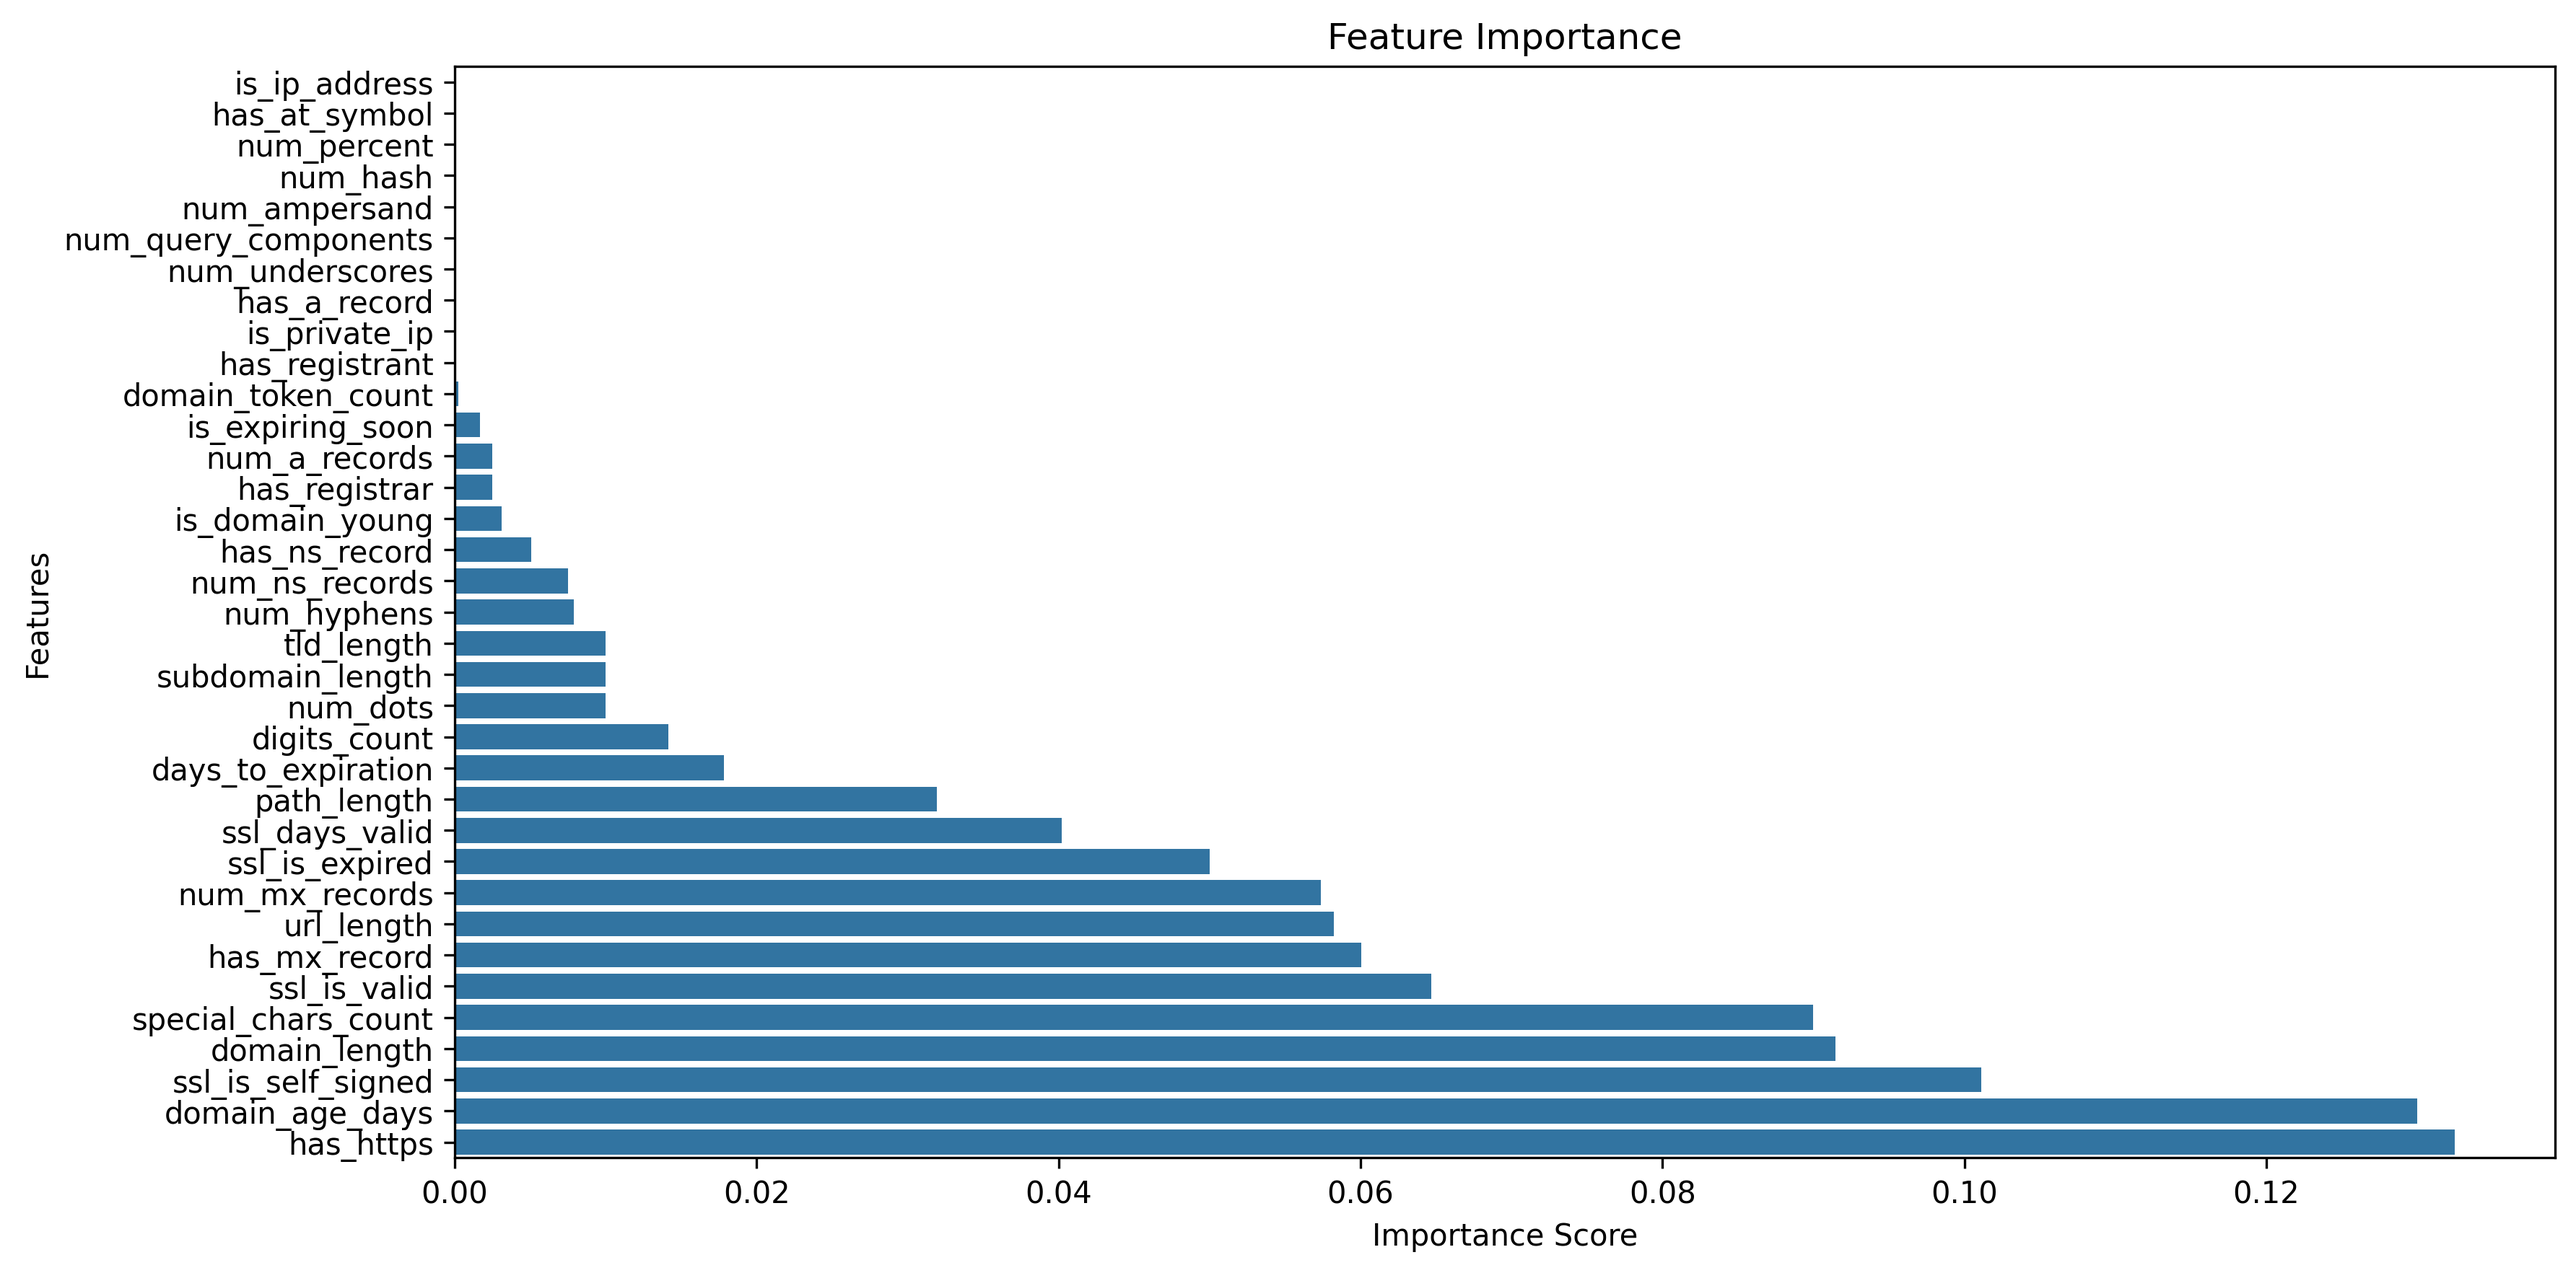
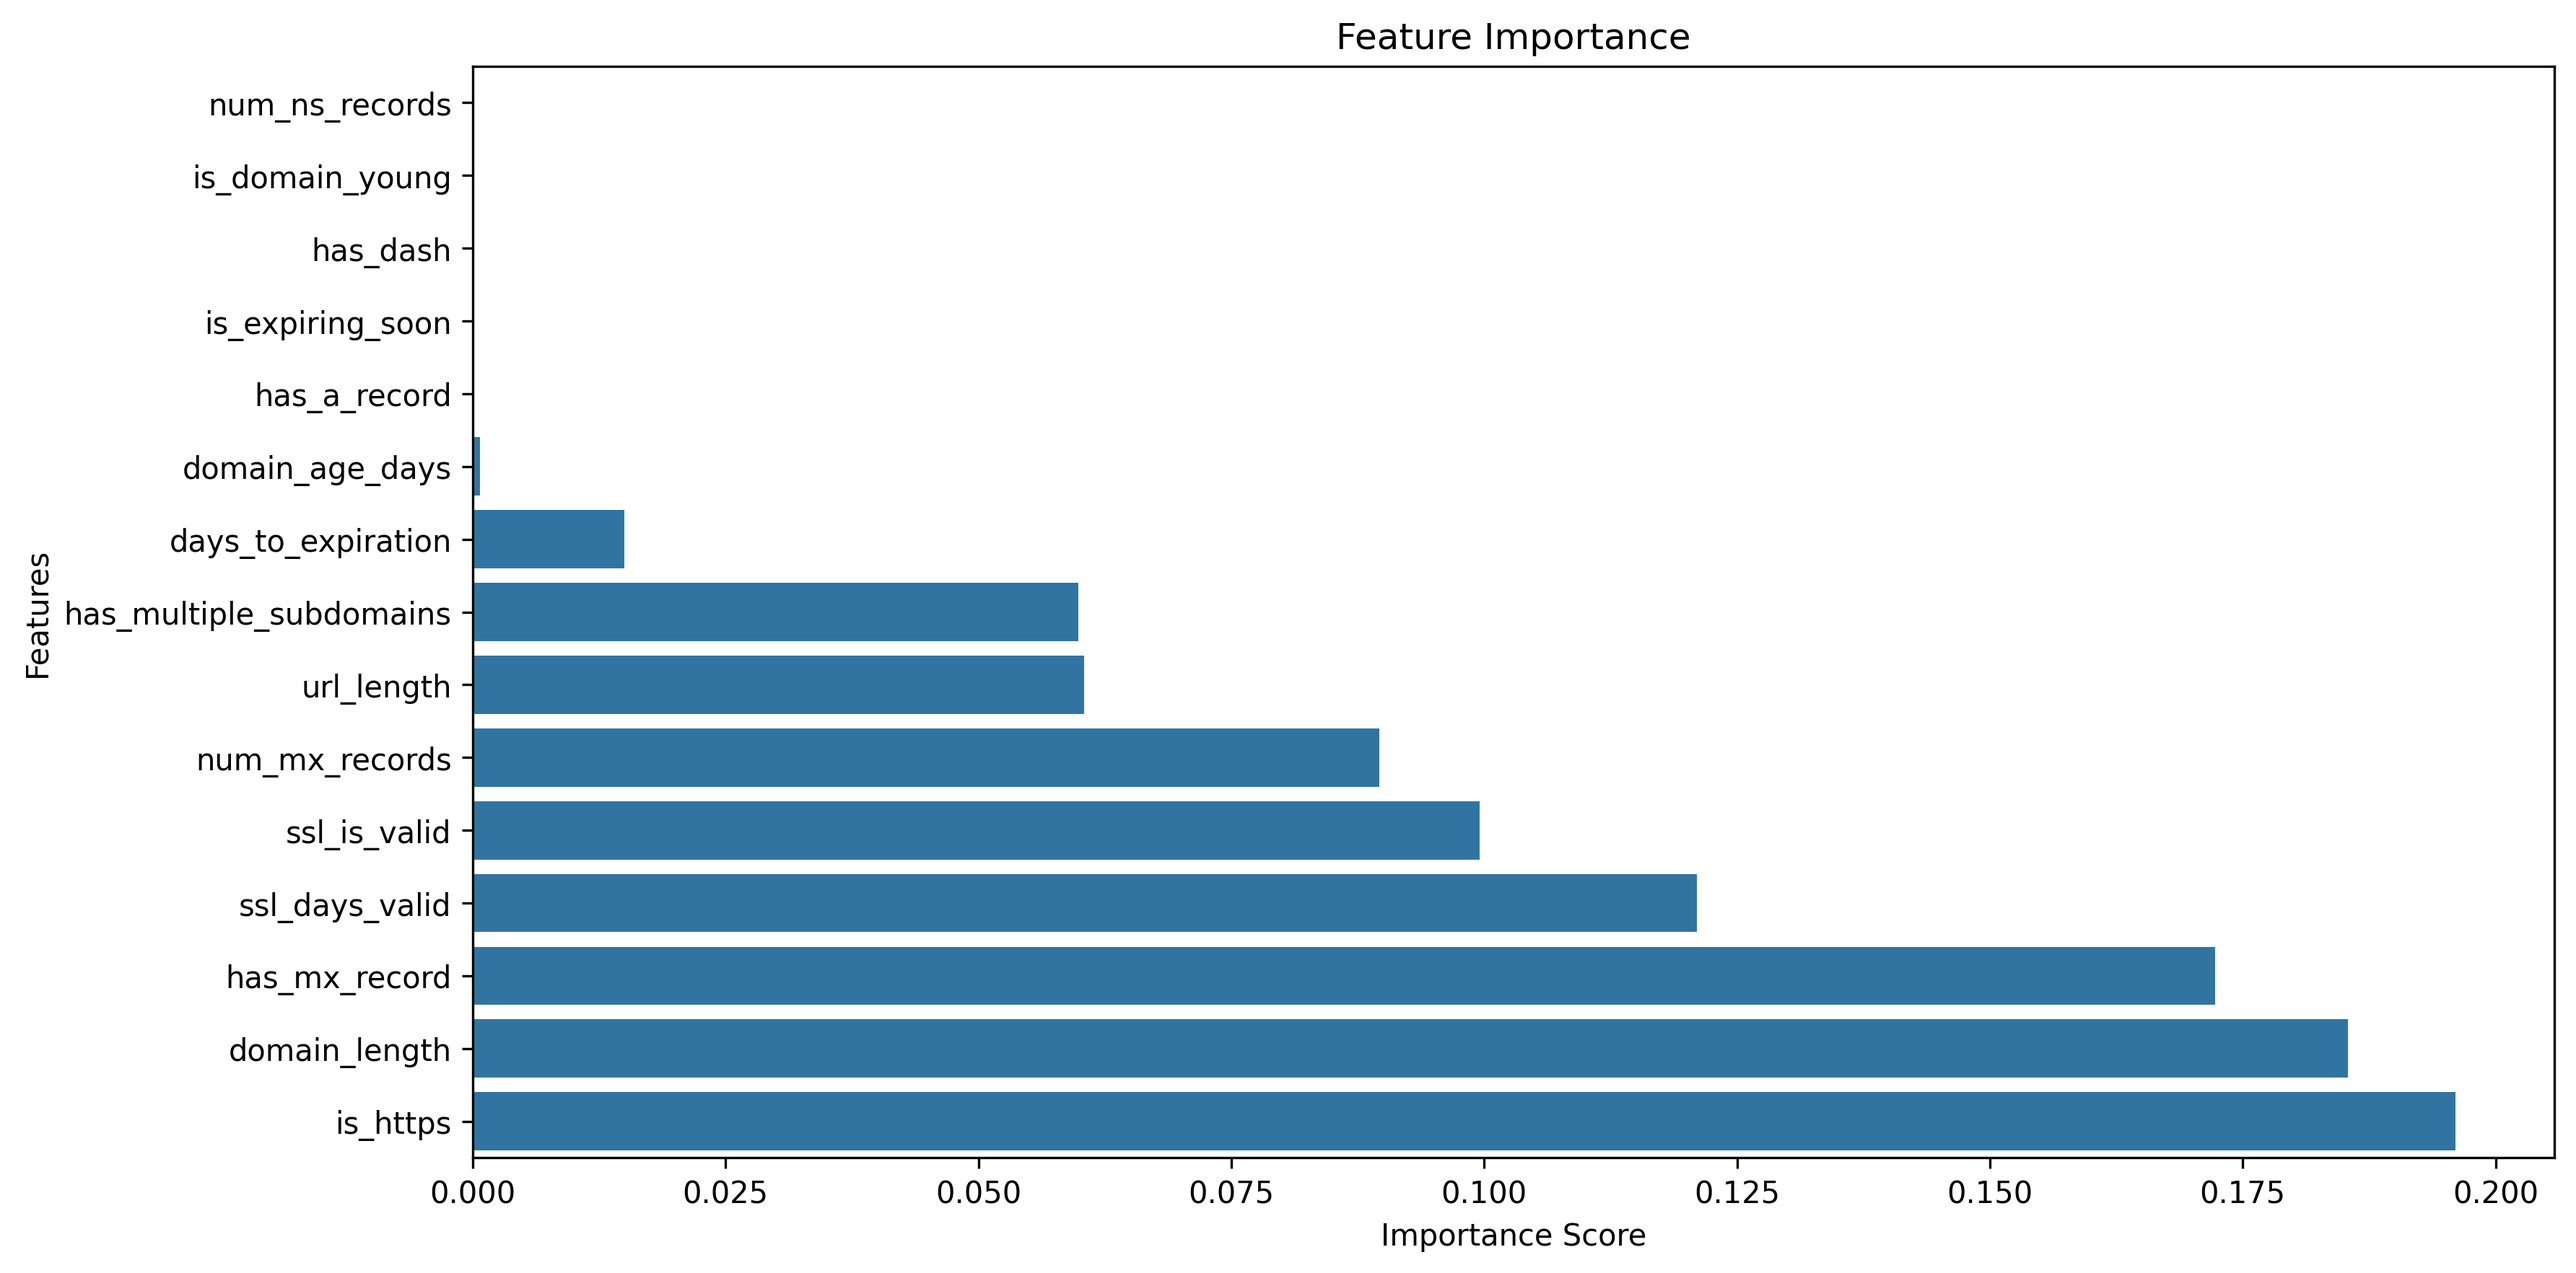
testing with 10

Changed region(s): [[0.0311, 0.0623, 0.9641, 0.9972], [0.5287, 0.0, 0.6531, 0.0623]]

diff --git a/phishing_detection.py b/phishing_detection.py
@@ -243,60 +243,93 @@ class URLFeatureExtractor:
 
 def load_and_process_data(phishing_file_path, legitimate_file_path, sample_size=30000):
     """
-    Load and process both phishing and legitimate URL datasets
+    Load and process both phishing and legitimate URL datasets with enhanced preprocessing
+    
+    Parameters:
+    - phishing_file_path: path to phishing URLs file
+    - legitimate_file_path: path to legitimate URLs file
+    - sample_size: number of samples per class (default increased to 50000)
     """
-    # Load the datasets
-    logging.info("Loading datasets...")
-    phishing_df = pd.read_csv(phishing_file_path, low_memory=False)
-    legitimate_df = pd.read_csv(legitimate_file_path, low_memory=False)
+    logging.info("Loading and processing datasets...")
     
-    logging.info(f"Total phishing URLs available: {len(phishing_df)}")
-    logging.info(f"Total legitimate URLs available: {len(legitimate_df)}")
+    # Load datasets
+    phishing_df = pd.read_csv(phishing_file_path)
+    legitimate_df = pd.read_csv(legitimate_file_path)
     
-    # Sample only specified number of URLs from both datasets
-    phishing_df = phishing_df.sample(n=sample_size, random_state=42)
-    legitimate_df = legitimate_df.sample(n=sample_size, random_state=42)
+    # Ensure URL column exists
+    phishing_urls = phishing_df['url'] if 'url' in phishing_df.columns else phishing_df.iloc[:, 0]
+    legitimate_urls = legitimate_df['url'] if 'url' in legitimate_df.columns else legitimate_df.iloc[:, 0]
     
-    logging.info(f"\nUsing {sample_size} URLs from each category for testing")
+    # Sample equal numbers from each class
+    if len(phishing_urls) > sample_size:
+        phishing_urls = phishing_urls.sample(n=sample_size, random_state=42)
+    if len(legitimate_urls) > sample_size:
+        legitimate_urls = legitimate_urls.sample(n=sample_size, random_state=42)
     
-    # Create feature lists for both types
-    logging.info("\nExtracting features from URLs...")
+    logging.info(f"Processing {len(phishing_urls)} phishing and {len(legitimate_urls)} legitimate URLs")
     
+    # Initialize feature extractor
     extractor = URLFeatureExtractor()
-    phishing_features = extractor.extract_features_batch(phishing_df['url'])
-    legitimate_features = extractor.extract_features_batch(legitimate_df['url'])
     
-    logging.info(f"Processed {len(phishing_features)} phishing URLs")
-    logging.info(f"Processed {len(legitimate_features)} legitimate URLs")
+    # Extract features in parallel
+    phishing_features = extractor.extract_features_batch(phishing_urls.tolist())
+    legitimate_features = extractor.extract_features_batch(legitimate_urls.tolist())
     
-    # Combine features and labels
-    all_features = pd.concat([phishing_features, legitimate_features])
-    all_labels = [1] * len(phishing_features) + [0] * len(legitimate_features)
+    # Convert to DataFrames
+    phishing_df = pd.DataFrame(phishing_features)
+    legitimate_df = pd.DataFrame(legitimate_features)
     
-    # Convert to DataFrame
-    features_df = pd.DataFrame(all_features)
-    features_df['label'] = all_labels
+    # Add labels
+    phishing_df['label'] = 1
+    legitimate_df['label'] = 0
     
-    # Fill any missing values with -1
-    features_df = features_df.fillna(-1)
+    # Combine datasets
+    features_df = pd.concat([phishing_df, legitimate_df], ignore_index=True)
     
-    logging.info("\nFeature statistics:")
-    logging.info(features_df.describe())
+    # Preprocessing steps
+    # 1. Handle missing values
+    features_df = features_df.fillna(features_df.mean())
     
-    logging.info("\nLabel distribution:")
-    logging.info(features_df['label'].value_counts(normalize=True))
+    # 2. Remove constant features
+    constant_features = [col for col in features_df.columns if col != 'label' 
+                        and features_df[col].nunique() == 1]
+    features_df = features_df.drop(columns=constant_features)
+    if constant_features:
+        logging.info(f"Removed {len(constant_features)} constant features")
     
+    # 3. Remove highly correlated features
+    corr_matrix = features_df.drop('label', axis=1).corr().abs()
+    upper = corr_matrix.where(np.triu(np.ones(corr_matrix.shape), k=1).astype(bool))
+    high_corr_features = [column for column in upper.columns if any(upper[column] > 0.95)]
+    features_df = features_df.drop(columns=high_corr_features)
+    if high_corr_features:
+        logging.info(f"Removed {len(high_corr_features)} highly correlated features")
+    
+    # 4. Scale numerical features
+    from sklearn.preprocessing import RobustScaler
+    scaler = RobustScaler()
+    numerical_cols = features_df.select_dtypes(include=['float64', 'int64']).columns
+    numerical_cols = numerical_cols.drop('label') if 'label' in numerical_cols else numerical_cols
+    
+    if len(numerical_cols) > 0:
+        features_df[numerical_cols] = scaler.fit_transform(features_df[numerical_cols])
+        logging.info(f"Scaled {len(numerical_cols)} numerical features using RobustScaler")
+    
+    # Shuffle the dataset
+    features_df = features_df.sample(frac=1, random_state=42).reset_index(drop=True)
+    
+    logging.info(f"Final dataset shape: {features_df.shape}")
     return features_df
 
-def prepare_data_splits(features_df, test_size=0.15, val_size=0.15):
+def prepare_data_splits(features_df, test_size=0.2, val_size=0.2):
     """
     Split data into train, validation, and test sets efficiently
     
     Parameters:
     - features_df: DataFrame containing features and labels
-    - test_size: 0.15 (15% for test set)
-    - val_size: 0.15 (15% for validation set)
-    - Remaining 70% for training set
+    - test_size: 0.2 (20% for test set)
+    - val_size: 0.2 (20% for validation set)
+    - Remaining 60% for training set
     
     Returns:
     - X_train, X_val, X_test: feature matrices for training, validation, and test sets
@@ -310,7 +343,7 @@ def prepare_data_splits(features_df, test_size=0.15, val_size=0.15):
     X = features_df.drop('label', axis=1).values
     y = features_df['label'].values
     
-    # First split: separate test set (15%)
+    # First split: separate test set (20%)
     X_temp, X_test, y_temp, y_test = train_test_split(
         X, y,
         test_size=test_size,
@@ -319,7 +352,7 @@ def prepare_data_splits(features_df, test_size=0.15, val_size=0.15):
     )
     
     # Second split: separate validation set from remaining data
-    # val_size = 0.15 / 0.85 ≈ 0.176 to get 15% of original data
+    # val_size = 0.2 / 0.8 ≈ 0.25 to get 20% of original data
     val_ratio = val_size / (1 - test_size)
     X_train, X_val, y_train, y_val = train_test_split(
         X_temp, y_temp,
@@ -346,51 +379,68 @@ def prepare_data_splits(features_df, test_size=0.15, val_size=0.15):
 def tune_random_forest(X_train, y_train):
     """
     Perform hyperparameter tuning for Random Forest using GridSearchCV with enhanced cross-validation
+    and regularization parameters
     """
+    logging.info("Starting hyperparameter tuning for Random Forest...")
+    
+    # Define an expanded parameter grid
     param_grid = {
-        'n_estimators': [100, 200],
-        'max_depth': [10, 20, None],
-        'min_samples_split': [2, 5],
-        'min_samples_leaf': [1, 2]
+        'n_estimators': [10, 20],
+        'max_depth': [None, 3, 5],
+        'min_samples_split': [2],
+        'min_samples_leaf': [1],
+        'max_features': ['sqrt'],
+        'class_weight': ['balanced'],
+        'max_samples': [0.8],  # Bootstrap sample size (regularization)
+        'ccp_alpha': [0.0]  # Cost complexity pruning (regularization)
     }
     
-    # Initialize base model with n_jobs for parallel processing
+    # Initialize base model with regularization parameters
     base_model = RandomForestClassifier(
         random_state=42,
         n_jobs=-1,  # Use all available cores
-        class_weight='balanced'
+        oob_score=True,  # Use out-of-bag score
+        bootstrap=True,  # Enable bootstrapping
+        warm_start=False  # Disable warm start for better randomization
     )
     
-    # Configure GridSearchCV with parallel processing
+    # Initialize GridSearchCV with stratification and multiple metrics
+    cv = StratifiedKFold(n_splits=3, shuffle=True, random_state=42)
+    
+    scoring = {
+        'accuracy': 'accuracy',
+        'precision': 'precision',
+        'recall': 'recall',
+        'f1': 'f1',
+        'roc_auc': 'roc_auc'
+    }
+    
     grid_search = GridSearchCV(
         estimator=base_model,
         param_grid=param_grid,
-        cv=StratifiedKFold(n_splits=5, shuffle=True, random_state=42),
-        scoring='f1',
-        n_jobs=-1,  # Use all available cores for parallel processing
-        verbose=1
+        cv=cv,
+        scoring=scoring,
+        refit='f1',  # Use F1 score for selecting best model
+        n_jobs=-1,
+        verbose=2,
+        return_train_score=True
     )
     
-    # Fit the model using batches to optimize memory usage
-    batch_size = 10000
-    for i in range(0, len(X_train), batch_size):
-        end_idx = min(i + batch_size, len(X_train))
-        X_batch = X_train[i:end_idx]
-        y_batch = y_train[i:end_idx]
-        
-        if i == 0:
-            grid_search.fit(X_batch, y_batch)
-        else:
-            # Update the best estimator with new batch
-            grid_search.best_estimator_.fit(
-                X_batch, y_batch, 
-                warm_start=True  # Use warm start for incremental fitting
-            )
+    # Fit the grid search
+    logging.info("Fitting GridSearchCV...")
+    grid_search.fit(X_train, y_train)
     
-    logging.info("Best parameters found: %s", grid_search.best_params_)
-    logging.info("Best cross-validation score: %f", grid_search.best_score_)
+    # Log best parameters and scores
+    logging.info("\nBest parameters found:")
+    logging.info(grid_search.best_params_)
+    logging.info("\nBest cross-validation scores:")
+    for metric in scoring.keys():
+        logging.info(f"{metric}: {grid_search.cv_results_[f'mean_test_{metric}'][grid_search.best_index_]:.4f}")
     
-    return grid_search.best_estimator_
+    # Get feature importances from best model
+    feature_importances = grid_search.best_estimator_.feature_importances_
+    
+    return grid_search.best_estimator_, feature_importances
 
 def evaluate_model(model, X, y, set_name=""):
     """
@@ -456,7 +506,7 @@ class ModelVisualizer:
         plt.title('Confusion Matrix')
         plt.ylabel('True Label')
         plt.xlabel('Predicted Label')
-        self.save_plot('confusion_matrix-1000')
+        self.save_plot('confusion_matrix-10')
 
     def plot_feature_importance(self, feature_names, importances):
         """Generate and save feature importance plot"""
@@ -470,7 +520,7 @@ class ModelVisualizer:
         plt.title('Feature Importance')
         plt.xlabel('Importance Score')
         plt.ylabel('Features')
-        self.save_plot('feature_importance-1000')
+        self.save_plot('feature_importance-10')
 
     def plot_roc_curve(self, y_true, y_prob):
         """Generate and save ROC curve plot"""
@@ -487,7 +537,7 @@ class ModelVisualizer:
         plt.ylabel('True Positive Rate')
         plt.title('Receiver Operating Characteristic (ROC) Curve')
         plt.legend(loc="lower right")
-        self.save_plot('roc_curve-1000')
+        self.save_plot('roc_curve-10')
 
     def plot_precision_recall_curve(self, y_true, y_prob):
         """Generate and save precision-recall curve plot"""
@@ -501,13 +551,13 @@ class ModelVisualizer:
         plt.ylabel('Precision')
         plt.title('Precision-Recall Curve')
         plt.legend(loc="lower left")
-        self.save_plot('precision_recall_curve-1000')
+        self.save_plot('precision_recall_curve-10')
 
-    def plot_learning_curve(self, estimator, X, y, cv=5):
+    def plot_learning_curve(self, estimator, X, y, cv=3):
         """Generate and save learning curve plot"""
         train_sizes, train_scores, test_scores = learning_curve(
             estimator, X, y, cv=cv, n_jobs=-1,
-            train_sizes=np.linspace(0.1, 1.0, 10),
+            train_sizes=np.linspace(0.3, 1.0, 3),
             scoring='f1'
         )
         
@@ -533,7 +583,7 @@ class ModelVisualizer:
         plt.title('Learning Curve')
         plt.legend(loc='lower right')
         plt.grid(True)
-        self.save_plot('learning_curve-1000')
+        self.save_plot('learning_curve-10')
 
 def main():
     try:
@@ -549,14 +599,14 @@ def main():
         
         # Load and process data
         logging.info("Starting phishing URL detection model training...")
-        features_df = load_and_process_data(phishing_file_path, legitimate_file_path, sample_size=1000)
+        features_df = load_and_process_data(phishing_file_path, legitimate_file_path, sample_size=10)
         
         # Split the data
         logging.info("\nSplitting data into train, validation, and test sets...")
         X_train, X_val, X_test, y_train, y_val, y_test, feature_names = prepare_data_splits(features_df)
         
         # Perform hyperparameter tuning with enhanced cross-validation
-        best_model = tune_random_forest(X_train, y_train)
+        best_model, feature_importances = tune_random_forest(X_train, y_train)
         
         # Generate learning curve plot
         logging.info("\nGenerating learning curve plot...")
@@ -584,7 +634,7 @@ def main():
         # Feature importance analysis and plot
         feature_importance = pd.DataFrame({
             'feature': feature_names,
-            'importance': best_model.feature_importances_
+            'importance': feature_importances
         }).sort_values('importance', ascending=False)
         
         logging.info("\nFeature Importance:")
